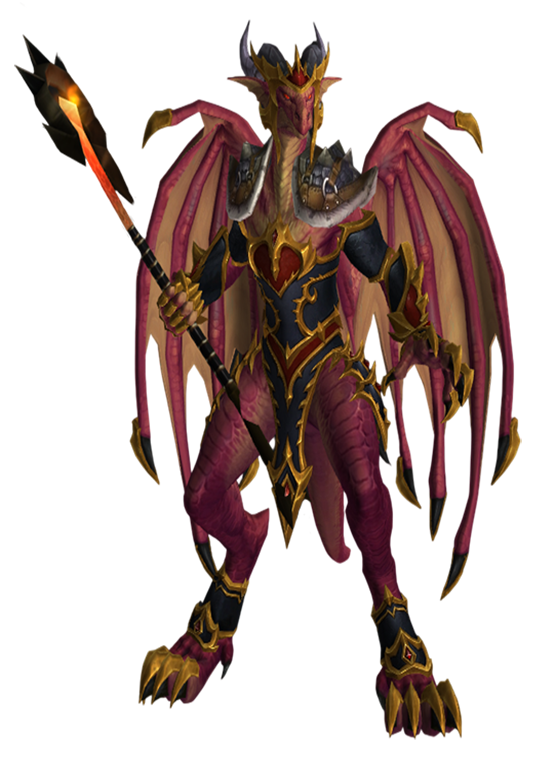
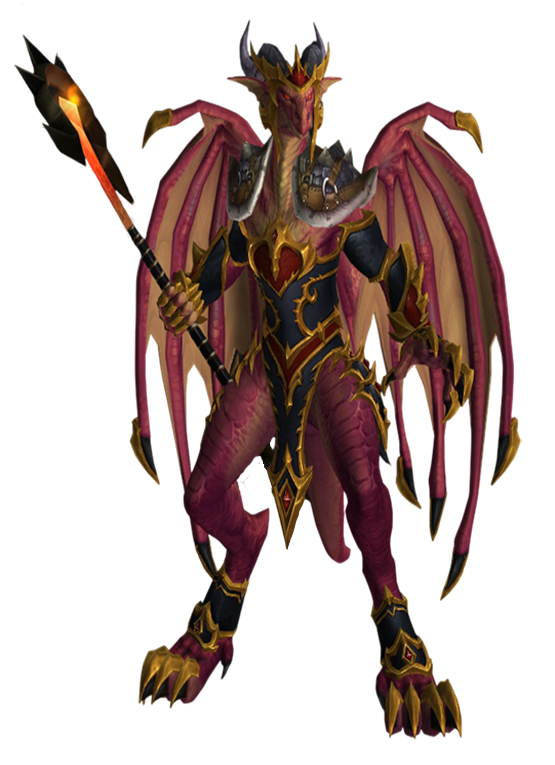
добавление цвета к рейдовой броне  осталось сделать рога лок и шаман
также добавлены сеты лича на паладина

Changed region(s): [[0.3982, 0.481, 0.582, 0.6915]]

diff --git a/README.md b/README.md
@@ -12,4 +12,4 @@
 В процессе:
 - 97/656 летающих маунтов,
 - 75 плащей.
-- Рейдовые сеты лича вар, катаклизма воин, паладин
+- Рейдовые сеты лича вар, пал, катаклизма воин, паладин
